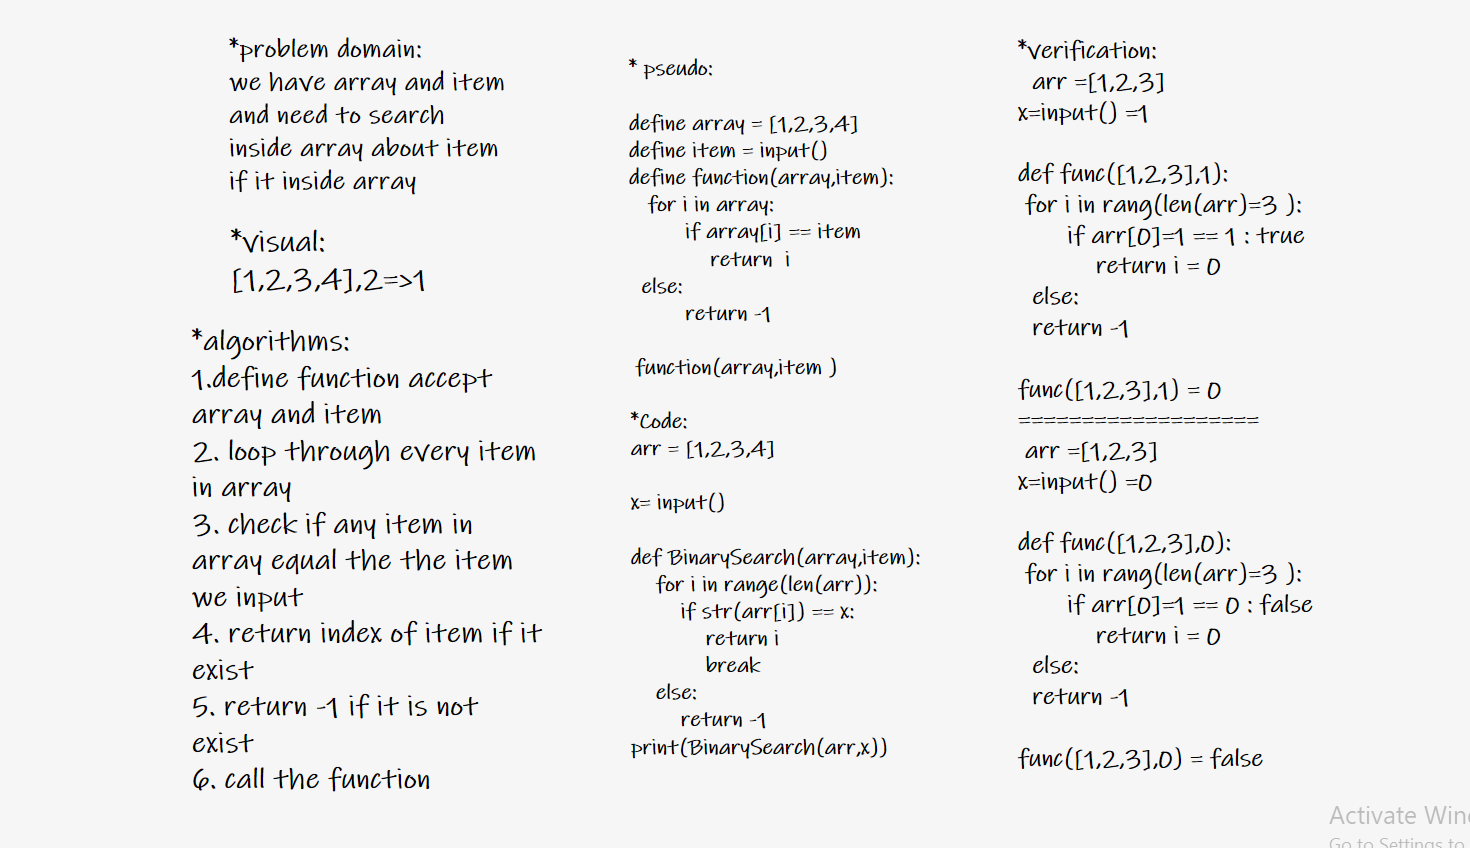
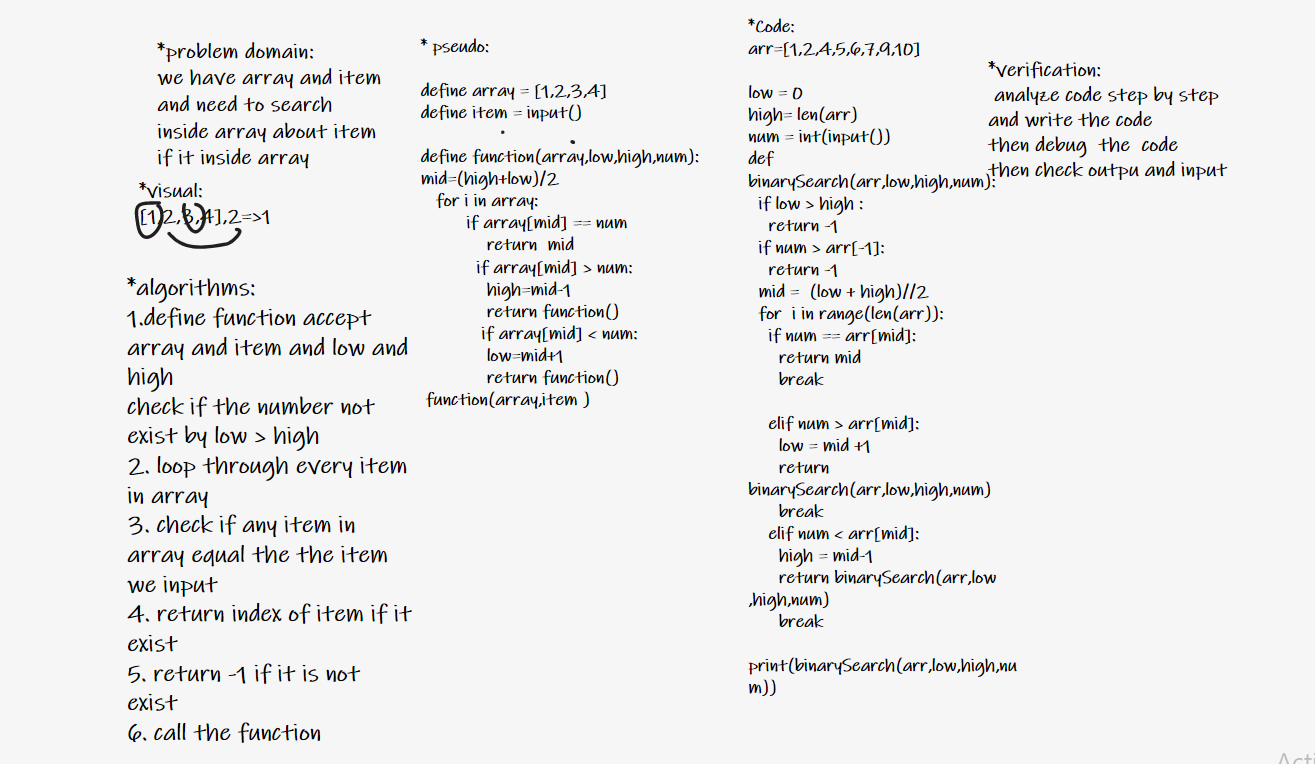
fix

diff --git a/python/array-binary-search/array-binary-search.py b/python/array-binary-search/array-binary-search.py
@@ -1,13 +1,29 @@
-arr = [1,2,3,4]
+arr=[1,2,4,5,6,7,9,10]
 
-x= input()
+low = 0 
+high= len(arr)
+num = int(input())
+def binarySearch(arr,low,high,num):
+  if low > high :
+    return -1
+  if num > arr[-1]:
+    return -1
+  mid =  (low + high)//2 
+  for  i in range(len(arr)):
+    if num == arr[mid]:
+      return mid
+      break
 
-def BinarySearch(array,item):
-    for i in range(len(arr)):
-        if str(arr[i]) == x:
-            return i
-            break
-    else:
-        return -1
-print(BinarySearch(arr,x))
+    elif num > arr[mid]:
+      low = mid +1 
+      return binarySearch(arr,low,high,num)
+      break
+    elif num < arr[mid]:
+      high = mid-1 
+      return binarySearch(arr,low ,high,num)
+      break
+     
+print(binarySearch(arr,low,high,num))
 
+  
+  
